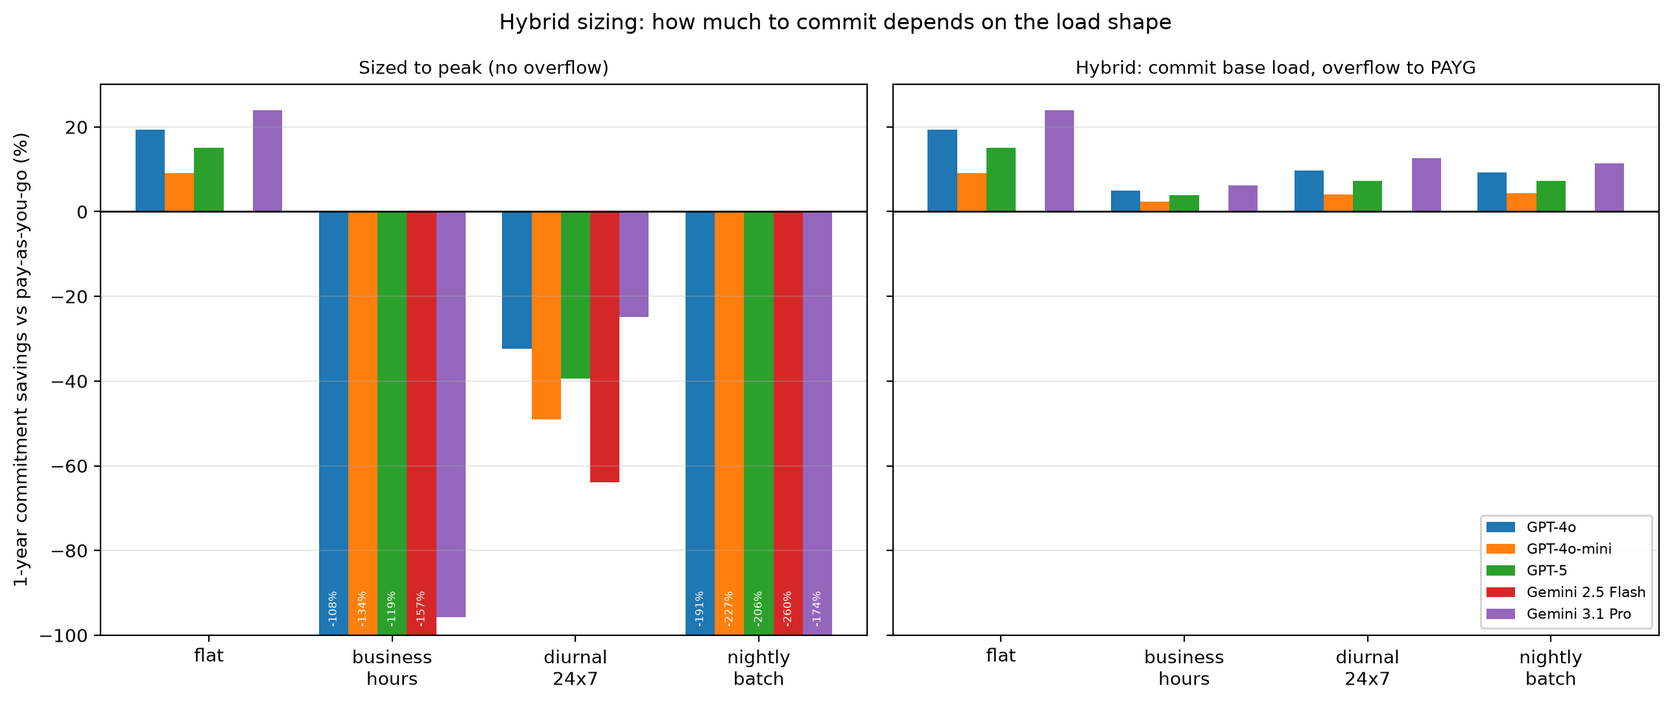
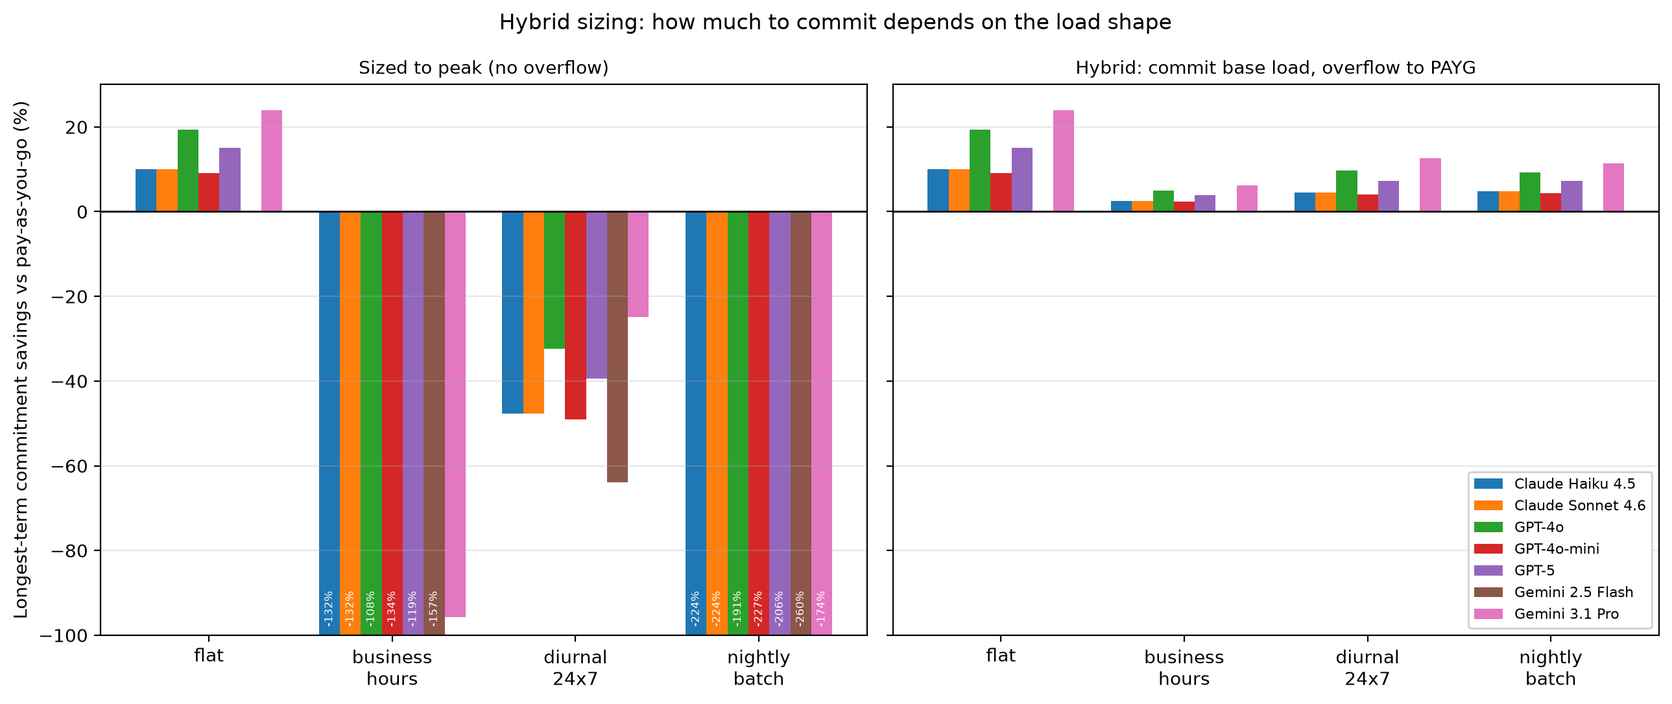
Model the AWS Bedrock Reserved tier
AWS publishes Reserved-tier prices, just not where they were first sought: the
regional price-list offer file has no Reserved entries and the pricing page's
HTML is empty, because the page fills its tables from a separate data file. Read
from there (Global cross-region, US East), Claude Haiku 4.5 and Sonnet 4.6 on 1-
and 3-month terms are now modeled. Sonnet 5 is not offered in this tier.

Input and output TPM are priced separately, with output at exactly 5x input, which
equals the on-demand price ratio, so a unit of 1K input-TPM-equivalent with an
output burn of 5 reproduces the cost (and passes the burn-vs-price check). The
1-month price equals pay-as-you-go, so break-even utilization is 100%; the 3-month
price is 10% cheaper, so 90%.

Bedrock's price differs per model, so commitment terms can now carry a model
(NULL for the model-independent Azure PTU and GCP GSU), with a unique index over
the nullable key. The break-even join applies a term only to its own model. The
verifier checks the four Reserved prices live alongside the on-demand rows, sharing
one fetch of the AWS page and price file. The peak-to-average and hybrid analyses
now use each unit's longest term (1-year, or 3-month for Bedrock), and the charts
gain Bedrock panels. No existing Azure or GCP result changed. README updated and
every table cell checked against the CSVs.

diff --git a/src/verify.py b/src/verify.py
@@ -135,42 +135,92 @@ def _close(a, b) -> bool:
     return a is not None and abs(a - b) < 1e-9
 
 
-def verify_on_demand(catalog: dict, fetch: Fetch) -> list[dict]:
+class _AwsSource:
+    """Fetch the AWS pricing page and its price-list file once; a failure is remembered, not retried."""
+
+    def __init__(self, fetch: Fetch):
+        self.fetch, self.tables, self.error = fetch, None, None
+
+    def get(self) -> list[dict]:
+        if self.error is not None:
+            raise self.error
+        if self.tables is None:
+            try:
+                _, page, _ = self.fetch(AWS_PAGE_URL)
+                _, data, _ = self.fetch(AWS_DATA_URL, referer=AWS_PAGE_URL)
+                self.tables = aws_tables(page, json.loads(data))
+            except (OSError, KeyError, ValueError) as exc:
+                self.error = exc
+                raise
+        return self.tables
+
+
+def _finish(result: dict, check) -> dict:
+    """Run `check()` (returns ok, truncated); turn fetch and parse failures into an 'error' entry."""
+    try:
+        result["ok"], truncated = check()
+        if truncated and not result["ok"]:
+            result["truncated"] = True
+    except OSError as exc:
+        result["error"] = str(exc)
+    except (KeyError, ValueError) as exc:
+        result["error"] = f"could not parse source: {exc!r}"
+    return result
+
+
+def verify_on_demand(catalog: dict, fetch: Fetch, aws: _AwsSource | None = None) -> list[dict]:
     """Verify every on-demand row that has a `verify` spec. One dict per row, never raises."""
-    results, texts, aws = [], {}, {}
+    aws = aws or _AwsSource(fetch)
+    texts: dict[str, tuple[str, bool]] = {}
+    results = []
     for row in catalog["on_demand"]:
         spec = row.get("verify")
         if spec is None:
             continue
-        label = f"{row['provider']} {row['model']}"
-        result = {"row": label, "kind": spec["kind"], "url": spec["url"],
-                  "expected": [row["input_per_mtok"], row["output_per_mtok"]], "ok": False}
-        try:
+        price_in, price_out = row["input_per_mtok"], row["output_per_mtok"]
+        result = {"row": f"{row['provider']} {row['model']}", "kind": spec["kind"], "url": spec["url"],
+                  "expected": [price_in, price_out], "ok": False}
+
+        def check(spec=spec, price_in=price_in, price_out=price_out, result=result):
             if spec["kind"] == "aws_bedrock":
-                if "tables" not in aws:
-                    _, page, _ = fetch(AWS_PAGE_URL)
-                    _, data, _ = fetch(AWS_DATA_URL, referer=AWS_PAGE_URL)
-                    aws["tables"] = aws_tables(page, json.loads(data))
-                found = aws_lookup(
-                    aws["tables"], spec["section"], spec["model"],
-                    ["Price per 1M input tokens", "Price per 1M output tokens"],
-                )
+                found = aws_lookup(aws.get(), spec["section"], spec["model"],
+                                   ["Price per 1M input tokens", "Price per 1M output tokens"])
                 result["found"] = found
-                result["ok"] = found is not None and _close(found[0], row["input_per_mtok"]) and _close(
-                    found[1], row["output_per_mtok"]
-                )
-            else:
-                if spec["url"] not in texts:
-                    status, body, truncated = fetch(spec["url"])
-                    texts[spec["url"]] = (page_text(body), truncated)
-                text, truncated = texts[spec["url"]]
-                check = verify_azure_row if spec["kind"] == "azure_row" else verify_gcp_rows
-                result["ok"] = check(text, spec, row["input_per_mtok"], row["output_per_mtok"])
-                if truncated and not result["ok"]:
-                    result["truncated"] = True
-        except OSError as exc:
-            result["error"] = str(exc)
-        except (KeyError, ValueError) as exc:
-            result["error"] = f"could not parse source: {exc!r}"
-        results.append(result)
+                return found is not None and _close(found[0], price_in) and _close(found[1], price_out), False
+            if spec["url"] not in texts:
+                _, body, truncated = fetch(spec["url"])
+                texts[spec["url"]] = (page_text(body), truncated)
+            text, truncated = texts[spec["url"]]
+            matcher = verify_azure_row if spec["kind"] == "azure_row" else verify_gcp_rows
+            return matcher(text, spec, price_in, price_out), truncated
+
+        results.append(_finish(result, check))
     return results
+
+
+def verify_reserved(catalog: dict, fetch: Fetch, aws: _AwsSource | None = None) -> list[dict]:
+    """Verify AWS Reserved-tier term rows: hourly price per 1K input TPM and per 1K output TPM."""
+    aws = aws or _AwsSource(fetch)
+    results = []
+    for row in catalog["commitment_terms"]:
+        spec = row.get("verify")
+        if spec is None:
+            continue
+        expected = [row["hourly_rate"], row["output_hourly_rate"]]
+        result = {"row": f"{row['provider']} {row['model']} {row['term']}", "kind": spec["kind"],
+                  "url": spec["url"], "expected": expected, "ok": False}
+
+        def check(spec=spec, expected=expected, result=result):
+            columns = [f"Price per hour per 1K {side} TPM with {spec['months']}-Month Commitment" for side in ("Input", "Output")]
+            found = aws_lookup(aws.get(), spec["section"], spec["model"], columns)
+            result["found"] = found
+            return found is not None and _close(found[0], expected[0]) and _close(found[1], expected[1]), False
+
+        results.append(_finish(result, check))
+    return results
+
+
+def verify_catalog(catalog: dict, fetch: Fetch) -> list[dict]:
+    """Every check the catalog asks for, sharing one AWS fetch."""
+    aws = _AwsSource(fetch)
+    return verify_on_demand(catalog, fetch, aws) + verify_reserved(catalog, fetch, aws)

diff --git a/src/02_breakeven.py b/src/02_breakeven.py
@@ -78,6 +78,7 @@ def load_frames() -> tuple[pd.DataFrame, pd.DataFrame, pd.DataFrame]:
             SELECT
                 p.name AS provider,
                 t.provider_id,
+                t.model_id AS term_model_id,
                 t.unit_name,
                 t.term,
                 t.hourly_rate
@@ -107,9 +108,11 @@ def load_frames() -> tuple[pd.DataFrame, pd.DataFrame, pd.DataFrame]:
 def break_even_table(
     payg: pd.DataFrame, terms: pd.DataFrame, capacity: pd.DataFrame
 ) -> pd.DataFrame:
-    units = capacity.merge(terms, on=["provider_id", "unit_name"]).merge(
-        payg, on=["model_id", "provider"]
-    )
+    units = capacity.merge(terms, on=["provider_id", "unit_name"])
+    # A term with no model applies to every model on that unit (Azure PTU, GCP GSU); a term with a
+    # model (Bedrock Reserved tier) applies only to that model's capacity row.
+    units = units[units["term_model_id"].isna() | (units["term_model_id"] == units["model_id"])]
+    units = units.merge(payg, on=["model_id", "provider"])
     rows = []
     for _, u in units.iterrows():
         monthly_commit = u["hourly_rate"] * HOURS_PER_MONTH
@@ -158,6 +161,13 @@ TERM_COLORS = {
     "1-year": "#1f77b4",
 }
 PLOT_COLUMNS = 3
+
+
+def longest_term(table: pd.DataFrame) -> pd.DataFrame:
+    """Each unit and model's rows at its longest available term (1-year, or 3-month for Bedrock Reserved)."""
+    rank = table["term"].map(TERM_ORDER.index)
+    longest = rank.groupby([table["provider"], table["model"], table["unit"]]).transform("max")
+    return table[rank == longest]
 
 
 def plot(table: pd.DataFrame) -> Path:
@@ -212,7 +222,7 @@ def plot(table: pd.DataFrame) -> Path:
             pad=14,
         )
         ax.text(
-            0.02, 0.97, f"1 {u['unit']} ceiling: {capacity:,.0f}M tok/mo",
+            0.02, 0.97, f"one-unit capacity: {capacity:,.0f}M tok/mo",
             transform=ax.transAxes, va="top", fontsize=7.5, color="firebrick",
         )
         if never_pays:
@@ -263,16 +273,27 @@ def peak_sensitivity(table: pd.DataFrame) -> pd.DataFrame:
 def plot_peak(table: pd.DataFrame) -> Path:
     fig, ax = plt.subplots(figsize=(10, 6))
     p = np.linspace(1.0, 2.0, 200)
-    yearly = table[table["term"] == "1-year"]
-    for _, r in yearly.iterrows():
+    same_util: dict[float, int] = {}
+    placed: list[tuple[float, int]] = []  # (x, label row) so nearby break-even labels don't overprint
+    for _, r in longest_term(table).iterrows():
         savings = (1 - p * r["breakeven_utilization"]) * 100
-        (line,) = ax.plot(p, savings, linewidth=2, label=f"{r['provider']} {r['model']}")
+        # Lines with identical economics (Bedrock Haiku and Sonnet) would hide each other; dash the later ones.
+        dup = same_util.get(r["breakeven_utilization"], 0)
+        same_util[r["breakeven_utilization"]] = dup + 1
+        (line,) = ax.plot(
+            p, savings, linewidth=2, linestyle="--" if dup else "-",
+            label=f"{r['provider']} {r['model']} ({r['term']})",
+        )
         if r["max_peak_to_avg"] > 1.0:
+            row = 0
+            while any(abs(r["max_peak_to_avg"] - px) < 0.04 and row == prow for px, prow in placed):
+                row += 1
+            placed.append((r["max_peak_to_avg"], row))
             ax.scatter([r["max_peak_to_avg"]], [0], color=line.get_color(), zorder=5)
             ax.annotate(
                 f"{r['max_peak_to_avg']:.2f}",
                 xy=(r["max_peak_to_avg"], 0),
-                xytext=(0, -14),
+                xytext=(0, -14 - 12 * row),
                 textcoords="offset points",
                 ha="center",
                 fontsize=8,
@@ -282,7 +303,7 @@ def plot_peak(table: pd.DataFrame) -> Path:
     ax.axhline(0, color="black", linewidth=1)
     ax.set_ylim(-60, 30)
     ax.set_xlim(1.0, 2.0)
-    ax.set_title("1-year commitment savings vs pay-as-you-go, by peak-to-average ratio")
+    ax.set_title("Longest-term commitment savings vs pay-as-you-go, by peak-to-average ratio")
     ax.set_xlabel("Peak-to-average ratio (peak-minute TPM ÷ average TPM)")
     ax.set_ylabel("Savings vs pay-as-you-go (%)  ·  below 0 = commitment costs more")
     ax.grid(True, alpha=0.3)

diff --git a/src/04_hybrid_sizing.py b/src/04_hybrid_sizing.py
@@ -97,7 +97,7 @@ def hybrid_table(table: pd.DataFrame, shapes: dict[str, np.ndarray]) -> pd.DataF
 
 
 def plot(result: pd.DataFrame, suffix: str) -> Path:
-    yearly = result[result["term"] == "1-year"]
+    yearly = breakeven.longest_term(result)
     shapes = list(dict.fromkeys(yearly["shape"]))
     models = list(dict.fromkeys(yearly["model"]))
     width = 0.8 / len(models)
@@ -121,7 +121,7 @@ def plot(result: pd.DataFrame, suffix: str) -> Path:
         ax.set_title(title, fontsize=10)
         ax.set_ylim(-100, 30)
         ax.grid(True, axis="y", alpha=0.3)
-    axes[0].set_ylabel("1-year commitment savings vs pay-as-you-go (%)")
+    axes[0].set_ylabel("Longest-term commitment savings vs pay-as-you-go (%)")
     axes[1].legend(loc="lower right", fontsize=8, framealpha=0.92)
     fig.suptitle("Hybrid sizing: how much to commit depends on the load shape")
     fig.tight_layout()
@@ -150,14 +150,14 @@ def main() -> None:
     for name, x in shapes.items():
         print(f"  {name:15s} peak-to-avg {x.max():.2f}")
 
-    yearly = result[result["term"] == "1-year"]
-    print("\n1-year term: savings vs PAYG, hybrid (sized-to-peak in brackets)")
+    yearly = breakeven.longest_term(result)
+    print("\nLongest term (1-year, or 3-month for Bedrock): savings vs PAYG, hybrid (sized-to-peak in brackets)")
     cells = yearly.assign(
         cell=lambda d: d.apply(lambda r: f"{r['savings_hybrid']:+.1%} ({r['savings_sized_to_peak']:+.0%})", axis=1)
     )
     print(cells.pivot(index="model", columns="shape", values="cell")[list(shapes)].to_string())
 
-    print("\n1-year term: optimal commitment as a multiple of average load")
+    print("\nLongest term: optimal commitment as a multiple of average load")
     print(yearly.pivot(index="model", columns="shape", values="optimal_commit_x_avg")[list(shapes)].to_string())
 
     csv_out = OUTPUTS_DIR / f"hybrid_sizing{suffix}.csv"

diff --git a/src/01_load_pricing.py b/src/01_load_pricing.py
@@ -44,17 +44,21 @@ def create_schema(conn: sqlite3.Connection) -> None:
             source_url TEXT
         );
 
+        -- model_id is NULL when the unit's price does not depend on the model (Azure PTU,
+        -- GCP GSU) and set when it does (Bedrock Reserved tier). hourly_rate is $/hour per unit.
         CREATE TABLE commitment_terms (
             term_id INTEGER PRIMARY KEY,
             provider_id INTEGER NOT NULL REFERENCES providers(provider_id),
+            model_id INTEGER REFERENCES models(model_id),
             unit_name TEXT NOT NULL,
             term TEXT NOT NULL,
             hourly_rate REAL NOT NULL,
             note TEXT,
             effective_date TEXT NOT NULL,
-            source_url TEXT,
-            UNIQUE (provider_id, unit_name, term)
+            source_url TEXT
         );
+        CREATE UNIQUE INDEX commitment_terms_key
+            ON commitment_terms (provider_id, COALESCE(model_id, 0), unit_name, term);
 
         -- burndown_tpm is in input-equivalent tokens/min; output_burn is how many
         -- input tokens one output token consumes.

diff --git a/src/catalog.py b/src/catalog.py
@@ -69,9 +69,11 @@ def render_seed(catalog: dict, fetched_on: str) -> str:
             for r in catalog["on_demand"]
         ) + ";",
         "",
-        "INSERT INTO commitment_terms (provider_id, unit_name, term, hourly_rate, note, effective_date, source_url) VALUES",
+        "INSERT INTO commitment_terms (provider_id, model_id, unit_name, term, hourly_rate, note, effective_date, source_url) VALUES",
         ",\n".join(
-            f"({provider_id[r['provider']]}, {q(r['unit_name'])}, {q(r['term'])}, {r['hourly_rate']:.4f}, "
+            f"({provider_id[r['provider']]}, "
+            f"{model_id[(r['provider'], r['model'])] if r.get('model') else 'NULL'}, "
+            f"{q(r['unit_name'])}, {q(r['term'])}, {r['hourly_rate']:.4f}, "
             f"{q(r.get('note', ''))}, {q(fetched_on)}, {q(r['source_url'])})"
             for r in catalog["commitment_terms"]
         ) + ";",

diff --git a/src/00_refresh_prices.py b/src/00_refresh_prices.py
@@ -32,7 +32,7 @@ from pathlib import Path
 sys.path.insert(0, str(Path(__file__).parent))
 from catalog import REFRESH_HINT, load_catalog, render_seed, seed_drift, set_fetched_on
 from config import CATALOG_PATH, DATA_DIR, SEED_PATH
-from verify import verify_on_demand as verify_catalog
+from verify import verify_catalog
 
 SNAPSHOT_PATH = DATA_DIR / "price_snapshot.json"
 # The Vertex AI pricing page is ~3.6 MB of HTML with its prices ~2.2 MB in, so a small cap

diff --git a/README.md b/README.md
@@ -19,7 +19,7 @@ As organizations move real workloads onto large language models and AI infrastru
 
 For anyone reviewing this as a work sample, the project shows:
 
-- **Fluency in LLM/AI pricing models** across providers — Azure OpenAI PTUs (hourly vs. 1-month/1-year reservations), GCP's GSUs (1-week to 1-year terms), and pay-as-you-go token pricing across Azure, AWS Bedrock, and GCP — including how each provider's capacity units "burn down" faster for output tokens than input tokens, which changes the break-even math.
+- **Fluency in LLM/AI pricing models** across providers — Azure OpenAI PTUs (hourly vs. 1-month/1-year reservations), GCP's GSUs (1-week to 1-year terms), AWS Bedrock's Reserved-tier TPM commitments (1- and 3-month), and pay-as-you-go token pricing across Azure, AWS Bedrock, and GCP — including how each provider's capacity units "burn down" faster for output tokens than input tokens, which changes the break-even math.
 - **Commitment planning** — when a committed-capacity model beats on-demand, and the sustained utilization where that flips. For most terms modeled here it is close to saturation.
 - **Cost anomaly detection** — identifying unexpected spend patterns in usage data before they become billing surprises.
 - **Practical data engineering** — Python and SQL against a SQLite store, structured so pricing data loads cleanly and analyses are reproducible.
@@ -40,7 +40,7 @@ Three things make AI cost hard to govern, and each maps to a piece of this lab:
 |---|---|---|
 | **00 · Price refresh** | `data/price_catalog.json` is the pricing source of truth; `src/00_refresh_prices.py` regenerates `data/seed_pricing.sql` from it, verifies every on-demand rate and commitment price against the provider's live page before writing, and (`--check`) verifies the seed hasn't drifted from the catalog | ✅ Complete |
 | **01 · Pricing foundation** | Loads on-demand prices, commitment terms, and per-model unit capacity into SQLite (`src/01_load_pricing.py`); SQL queries to compare unit economics across providers | ✅ Complete |
-| **02 · Break-even analysis** | `src/02_breakeven.py` — models Azure PTU and GCP GSU commitments vs. pay-as-you-go across terms, with burndown-adjusted capacity, and shows how much traffic peakiness (peak-to-average ratio) a commitment can tolerate before it stops paying off | ✅ Complete |
+| **02 · Break-even analysis** | `src/02_breakeven.py` — models Azure PTU, GCP GSU, and AWS Bedrock Reserved-tier commitments vs. pay-as-you-go across terms, with burndown-adjusted capacity, and shows how much traffic peakiness (peak-to-average ratio) a commitment can tolerate before it stops paying off | ✅ Complete |
 | **03 · Cost anomaly detection** | `src/03_anomaly.py` — prices a 90-day usage series and flags spend spikes against a trailing robust baseline that is weekday/weekend-aware; `src/stress_test_anomaly.py` moves the incident around to test it | ✅ Complete |
 | **04 · Hybrid sizing** | `src/04_hybrid_sizing.py` — finds how much to commit when overflow can spill to pay-as-you-go, across illustrative weekly load shapes or your own hourly token CSV | ✅ Complete |
 
@@ -52,29 +52,32 @@ Three things make AI cost hard to govern, and each maps to a piece of this lab:
 - Monthly committed bill for one unit = `hourly_rate × 730`.
 - Break-even tokens = that bill ÷ blended $/token.
 - **Capacity is published in burndown tokens, not raw tokens.** Providers quote a unit's throughput in input-equivalent tokens per minute, and each output token burns several of them (Azure GPT-4o 4×, Gemini 3.1 Pro 6×, Gemini 2.5 Flash 9×). Real-token capacity for a mix with output share *s* is `burndown_tpm ÷ ((1 − s) + s × output_burn)`, times 60 × 730 for a month.
+- **Bedrock's Reserved tier** prices input and output TPM separately, with output at exactly 5× input (the on-demand price ratio), so a unit of 1K input-TPM-equivalent with an output burn of 5 reproduces its cost. Its price differs per model, so a commitment term can carry a model.
 - Break-even utilization = break-even tokens ÷ real-token capacity. Over 100% means one unit hits its ceiling before it can beat pay-as-you-go.
 - Burn multipliers track each model's output/input price ratio, so break-even utilization is nearly independent of the mix. The script flags any row where the two diverge by more than 15% (`burn_matches_price`), which usually means a data-entry error.
 - **Peakiness matters because a commitment must be sized for the peak.** With peak-to-average ratio *P* (peak-minute TPM ÷ average TPM), a unit sized to be fully busy at peak averages `1 ÷ P` utilization. So commitment cost ÷ pay-as-you-go cost = `P × break-even utilization`, and the highest *P* a commitment can tolerate is `1 ÷ break-even utilization` (`max_peak_to_avg`).
 
 **Key results** (one unit, 75/25 mix):
 
-| Unit · model | Break-even util., 1-month | Break-even util., 1-year | Max peak-to-avg, 1-year | One-unit capacity (M tokens/mo) |
-|---|---|---|---|---|
-| Azure PTU · GPT-4o | 95% | 81% | 1.24 | 62.6 |
-| Azure PTU · GPT-5 | ≈100% | 85% | 1.18 | 75.7 |
-| Azure PTU · GPT-4o-mini | 107% | 91% | 1.10 | 926.1 |
-| GCP GSU · Gemini 2.5 Flash | 135% | ≈100% | 1.00 | 2,356.4 |
-| GCP GSU · Gemini 3.1 Pro | 103% | 76% | 1.31 | 584.0 |
+| Unit · model | Break-even util., 1-month | 3-month | 1-year | Max peak-to-avg, longest term | One-unit capacity (M tokens/mo) |
+|---|---|---|---|---|---|
+| Azure PTU · GPT-4o | 95% | n/a | 81% | 1.24 | 62.6 |
+| Azure PTU · GPT-5 | ≈100% | n/a | 85% | 1.18 | 75.7 |
+| Azure PTU · GPT-4o-mini | 107% | n/a | 91% | 1.10 | 926.1 |
+| GCP GSU · Gemini 2.5 Flash | 135% | 120% | ≈100% | 1.00 | 2,356.4 |
+| GCP GSU · Gemini 3.1 Pro | 103% | 91% | 76% | 1.31 | 584.0 |
+| AWS Reserved TPM · Claude Haiku 4.5 | ≈100% | 90% | n/a | 1.11 | 21.9 |
+| AWS Reserved TPM · Claude Sonnet 4.6 | ≈100% | 90% | n/a | 1.11 | 21.9 |
 
-Utilization cells are the share of the unit's real-token capacity you must sustain before the commitment beats pay-as-you-go; over 100% means it never pays on a single unit. Shorter terms (hourly, 1-week) are worse in every case. Full tables: `outputs/breakeven_table.csv` and `outputs/peak_sensitivity.csv`.
+n/a means the provider offers no such term. Utilization cells are the share of the unit's real-token capacity you must sustain before the commitment beats pay-as-you-go; over 100% means it never pays on a single unit. Shorter terms (hourly, 1-week) are worse in every case. Full tables: `outputs/breakeven_table.csv` and `outputs/peak_sensitivity.csv`.
 
 ![Break-even by commitment unit and model](outputs/breakeven_analysis.png)
 
 Each panel is one unit and model in real dollars and tokens. The diagonal is pay-as-you-go; each horizontal line is a term's fixed monthly bill, drawn only up to the one-unit capacity (the dashed red line). The dot is where committing starts to pay, labeled with the utilization it needs. Terms whose break-even sits beyond the ceiling are listed above the panel as never paying on a single unit.
 
-![1-year commitment savings vs peak-to-average ratio](outputs/peak_to_average.png)
+![Longest-term commitment savings vs peak-to-average ratio](outputs/peak_to_average.png)
 
-A 1-year commitment sized to the peak only beats pay-as-you-go while peak-minute traffic stays within roughly 10–30% of the average. Past that it costs more: at a peak-to-average ratio of 2, every 1-year term modeled costs 52–100% more than staying on demand. Module 04 relaxes the sized-to-peak assumption.
+A commitment sized to the peak, at its longest term (1-year, or 3-month for Bedrock), only beats pay-as-you-go while peak-minute traffic stays within roughly 10–30% of the average (Gemini 2.5 Flash: not at all). Past that it costs more: at a peak-to-average ratio of 2, every such commitment costs 52–100% more than staying on demand. Module 04 relaxes the sized-to-peak assumption.
 
 **Hybrid sizing (Module 04)**
 
@@ -85,7 +88,7 @@ Azure (spillover, opt-in) and Vertex AI (default) can serve traffic above a comm
 - Savings are never negative, and are capped at `(1 − u)` times the share of tokens the commitment serves, because the discount only applies to committed tokens.
 - Savings depend on the load shape and *u*, not on volume.
 
-1-year hybrid savings vs pay-as-you-go, on illustrative weekly hourly load shapes (*P* = hourly peak-to-average):
+Longest-term hybrid savings vs pay-as-you-go (1-year, or 3-month for Bedrock), on illustrative weekly hourly load shapes (*P* = hourly peak-to-average):
 
 | Unit · model | flat (P=1.00) | diurnal 24×7 (P=1.64) | business hours (P=2.57) | nightly batch (P=3.60) |
 |---|---|---|---|---|
@@ -94,10 +97,12 @@ Azure (spillover, opt-in) and Vertex AI (default) can serve traffic above a comm
 | Azure PTU · GPT-4o-mini | 9.1% | 4.0% | 2.3% | 4.4% |
 | GCP GSU · Gemini 2.5 Flash | 0.1% | 0.0% | 0.0% | 0.1% |
 | GCP GSU · Gemini 3.1 Pro | 23.9% | 12.6% | 6.2% | 11.5% |
+| AWS Reserved TPM · Claude Haiku 4.5 | 10.0% | 4.5% | 2.6% | 4.8% |
+| AWS Reserved TPM · Claude Sonnet 4.6 | 10.0% | 4.5% | 2.6% | 4.8% |
 
 ![Sized-to-peak vs hybrid savings by load shape](outputs/hybrid_sizing.png)
 
-Sized to the peak, the same non-flat shapes lose 25–260%; hybrid sizing never loses. But the optimal commitment covers only the base load (0.26–0.62× the average for non-flat shapes), so realistic savings are small: 2–13% for the Azure models and Gemini 3.1 Pro, versus up to 24% for a perfectly flat load. Commitments here are a modest discount on a steady floor, not a lever on total spend. The shapes are illustrative, not measurements: run `python src/04_hybrid_sizing.py --load-csv your_hourly_tokens.csv` (a `tokens` column) to size against your own load. Full results: `outputs/hybrid_sizing.csv`.
+Sized to the peak, the same non-flat shapes lose 25–260%; hybrid sizing never loses. But the optimal commitment covers only the base load (0.26–0.62× the average for non-flat shapes), so realistic savings are small: 2–13% for every unit with a real discount (the Azure models, Bedrock, and Gemini 3.1 Pro), versus up to 24% for a perfectly flat load. Commitments here are a modest discount on a steady floor, not a lever on total spend. The shapes are illustrative, not measurements: run `python src/04_hybrid_sizing.py --load-csv your_hourly_tokens.csv` (a `tokens` column) to size against your own load. Full results: `outputs/hybrid_sizing.csv`.
 
 **Anomaly detection (Module 03)**
 
@@ -123,17 +128,15 @@ False flags average 0.010 per 90-day × 8-model run with the day-class baseline 
 
 **Where the data comes from**
 
-Pricing is a dated lab snapshot, not a live feed. `data/price_catalog.json` is the source of truth. `src/00_refresh_prices.py` regenerates `data/seed_pricing.sql` from it (never hand-edit the seed) and checks the catalog against the live sources before it writes anything: each commitment price must still appear on its page, and each on-demand rate must match what the provider publishes (`src/verify.py` reads Azure's per-price `data-amount` attributes, Google's HTML tables, and AWS's price-list JSON, which the AWS pricing page itself fills its tables from). A mismatch, an unreachable page (network or TLS), and an oversized page are reported as separate failures. The seed and its date stamp are only rewritten when every live check passes, so the date means every price in the seed was verified, and a successful live run also records that date as the catalog's `fetched_on`. A drift guard enforces the "never hand-edit" rule: `python src/00_refresh_prices.py --check` (no network, no writes) and the database loader both fail, with a diff, if the committed seed is not exactly what the catalog renders to. Without it, a hand edit to the seed would be silently overwritten by the next refresh. Throughput and burn figures come from provider documentation and are not machine-checked; each row carries its `source_url`.
+Pricing is a dated lab snapshot, not a live feed. `data/price_catalog.json` is the source of truth. `src/00_refresh_prices.py` regenerates `data/seed_pricing.sql` from it (never hand-edit the seed) and checks the catalog against the live sources before it writes anything: each commitment price must still appear on its page, and each on-demand rate and each Bedrock Reserved-tier price must match what the provider publishes (`src/verify.py` reads Azure's per-price `data-amount` attributes, Google's HTML tables, and AWS's price-list JSON, which the AWS pricing page itself fills its tables from). A mismatch, an unreachable page (network or TLS), and an oversized page are reported as separate failures. The seed and its date stamp are only rewritten when every live check passes, so the date means every price in the seed was verified, and a successful live run also records that date as the catalog's `fetched_on`. A drift guard enforces the "never hand-edit" rule: `python src/00_refresh_prices.py --check` (no network, no writes) and the database loader both fail, with a diff, if the committed seed is not exactly what the catalog renders to. Without it, a hand edit to the seed would be silently overwritten by the next refresh. Throughput and burn figures come from provider documentation and are not machine-checked; each row carries its `source_url`.
 
 ## Known limitations
 
 - Text tokens on the ≤200k-context tier only. Prompt caching, batch discounts, long-context pricing, and non-text modalities are not modeled.
 - Module 02's peak-to-average analysis assumes no overflow; Module 04 assumes overflow is billed at the standard pay-as-you-go rate. Both ignore whole-unit rounding and provider minimum deployments (Azure's global PTU minimum is 15). Vertex AI spills whole requests rather than tokens, and Azure spillover must be configured.
 - The peak-to-average ratio and Module 04's load shapes are inputs, not measurements: the synthetic usage in Module 03 is daily, so it can't show intra-day peaks. Hourly shapes also understate minute-level peaks.
-- Azure and GCP commitments are modeled. AWS Bedrock is covered for pay-as-you-go pricing only; its Reserved tier is published but not yet modeled. Checked against AWS's docs and pricing page on 2026-10-19:
-  - **Provisioned Throughput** lists only Claude 3 Haiku and Claude 3 Sonnet as supported, none of the Claude models in this catalog. The pricing page says "For Provisioned Throughput pricing, please reach out to your account team," and the docs publish neither per-model-unit throughput nor any output-token weighting. Overflow behavior past the purchased capacity is not documented.
-  - The **Reserved tier** is documented: a fixed monthly price per 1K tokens-per-minute, 1- or 3-month terms, input and output capacity reserved separately (minimums 100K and 10K TPM), access through the account team, and automatic overflow to the Standard tier. Its prices are published, but not where I first looked: AWS's regional price-list offer file has no Reserved entries (only legacy Claude models, plus commitment SKUs for Amazon Nova and Titan), and the pricing page's HTML is empty because the page fills its tables from a separate price-list data file keyed by hashed IDs. Read that way (Global, US East), Claude Haiku 4.5 is $0.06 / $0.30 per hour per 1K input / output TPM on a 1-month term and $0.054 / $0.27 on 3 months, and Claude Sonnet 4.6 is $0.18 / $0.90 and $0.162 / $0.81 (Geo and in-region are 10% higher; Sonnet 5 is not offered). Output is priced at exactly 5x input, the on-demand price ratio, so at 100% utilization the 1-month price equals pay-as-you-go and the 3-month price is 10% cheaper: break-even utilization of 100% and 90%.
-  - Not yet modeled: the Reserved tier fits the existing unit-and-burn model (a unit of 1K input-TPM-equivalent with an output burn of 5), but Bedrock prices differ per model, which the model-independent `commitment_terms` table can't express yet.
+- Azure and GCP commitments and the AWS Bedrock Reserved tier are modeled. Bedrock Provisioned Throughput is not. Checked against AWS's docs and pricing page on 2026-10-19, it lists only Claude 3 Haiku and Claude 3 Sonnet as supported (none of this catalog's Claude models), the pricing page says "For Provisioned Throughput pricing, please reach out to your account team," and the docs publish neither per-model-unit throughput nor any output-token weighting. Overflow behavior past the purchased capacity is not documented.
+- The Bedrock Reserved tier is modeled at the Global cross-region price (Geo and in-region are 10% higher), for the two catalog models it is offered for (Haiku 4.5 and Sonnet 4.6; Sonnet 5 is not offered) on 1- and 3-month terms. Input and output TPM are reserved separately, with output priced at 5× input; the model assumes they are bought in proportion to the workload. Access is through the AWS account team, and the 100K input / 10K output TPM minimums are not enforced. Its prices live in the data file the AWS pricing page fills its tables from, not in the regional price-list offer file or the page's HTML, which is why they are easy to miss.
 - Gemini 3.1 Pro is a preview model, so its capacity figures may change.
 - Module 03 runs on synthetic usage data with two planted incidents. It demonstrates the method, and the stress-test rates describe this synthetic noise (12% lognormal), not production detection accuracy.
 - Module 03 models seasonality as weekday vs weekend only. Per-weekday patterns, holidays, and month-end effects are not handled, and the detector is one-sided (spikes, not drops).
